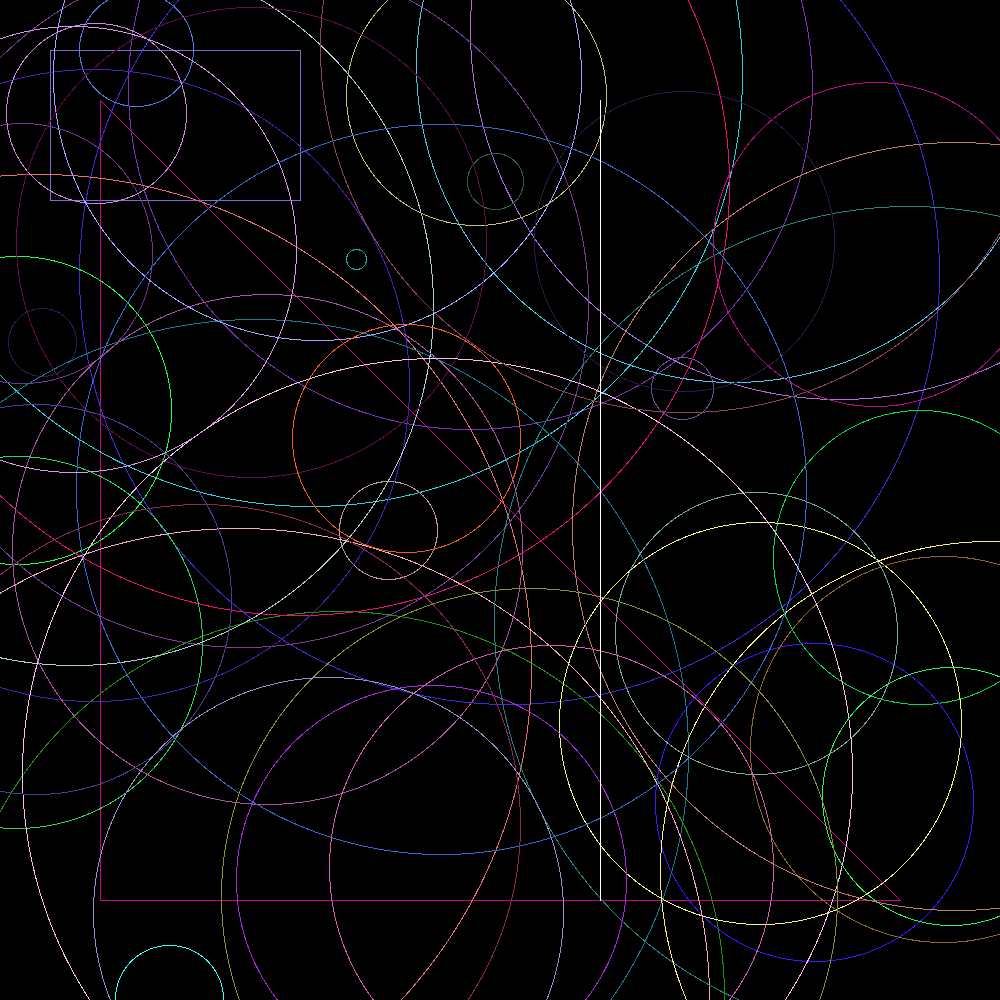
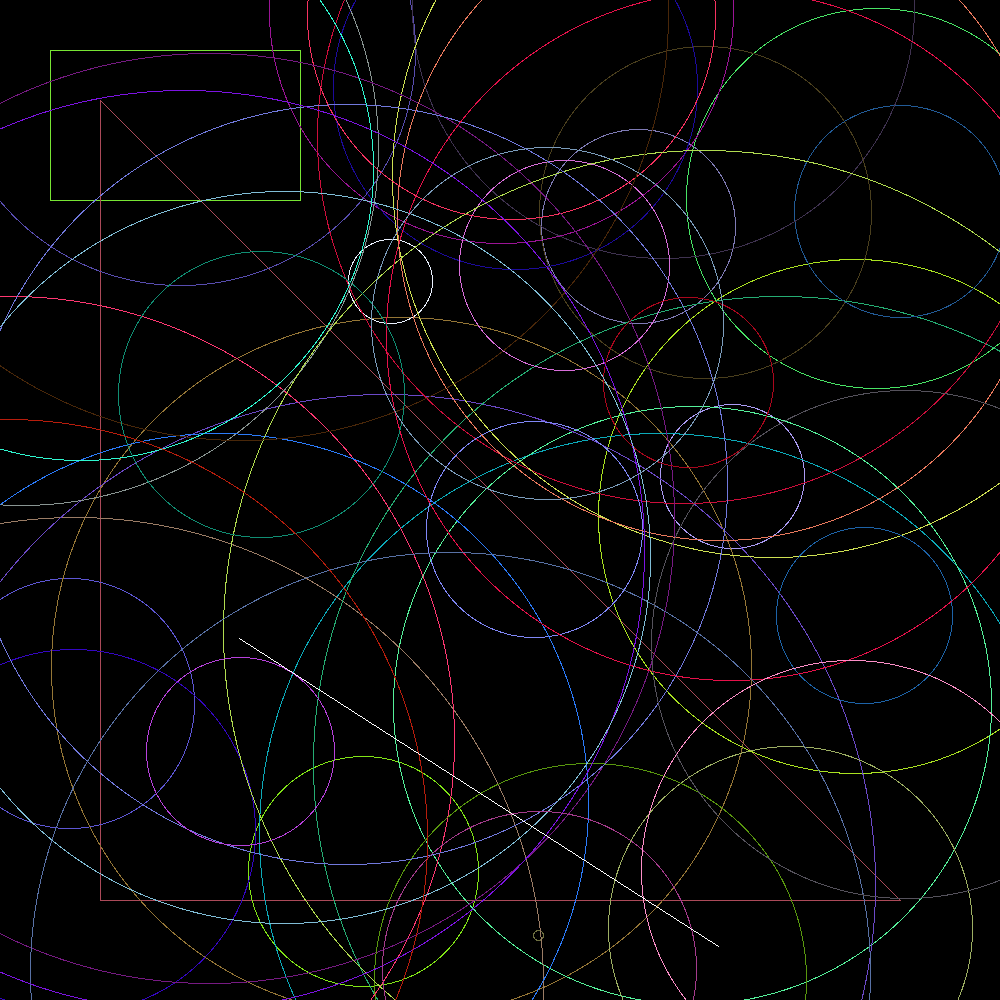
jart

diff --git a/geometrical_shapes/Line.java b/geometrical_shapes/Line.java
@@ -1,11 +1,12 @@
 package geometrical_shapes;
 
 import java.awt.Color;
+// import java.util.Random;
 
 public class Line implements Drawable {
     private Point start, end;
     private Color color;
-
+    
     // Constructeur
     public Line(Point start, Point end, Color color) {
         this.start = start;
@@ -17,8 +18,17 @@ public class Line implements Drawable {
         this(start, end, Color.WHITE); 
     }
 
-    public static Line random(int width, int height) {
-        return new Line(Point.random(width, height), Point.random(width, height));
+    // public static Line random(int width, int height) {
+    //     return new Line(Point.random(width, height), Point.random(width, height));
+    // }
+    
+     public static Line random(int width, int height) {
+        Point start = Point.random(width, height);
+        Point end = Point.random(width, height);
+
+        Color color = Color.WHITE;
+
+        return new Line(start, end, color);
     }
 
     @Override

diff --git a/Main.java b/Main.java
@@ -13,11 +13,14 @@ public class Main {
             circle.draw(image);
         }
 
-        Point point = new Point(500, 500);
-        point.draw(image);
+        // Point point = new Point(500, 500);
+        // point.draw(image);
 
-        Line line = new Line(new Point(600, 100), new Point(600, 900));
-        line.draw(image);
+        // Line line = new Line(new Point(600, 100), new Point(600, 900));
+        // line.draw(image);
+        
+        // Line line = Line.random(image.getWidth(), image.getHeight());
+        // line.draw(image);
 
         image.save("image.png");
     }
